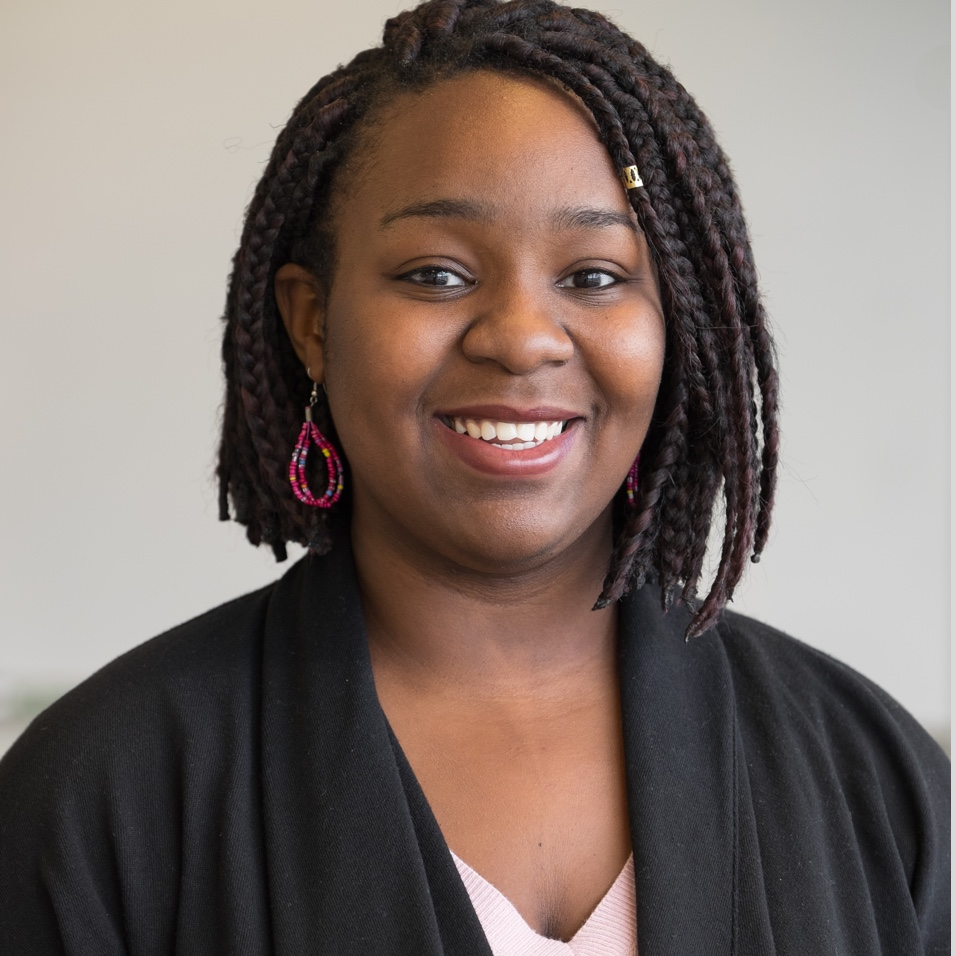
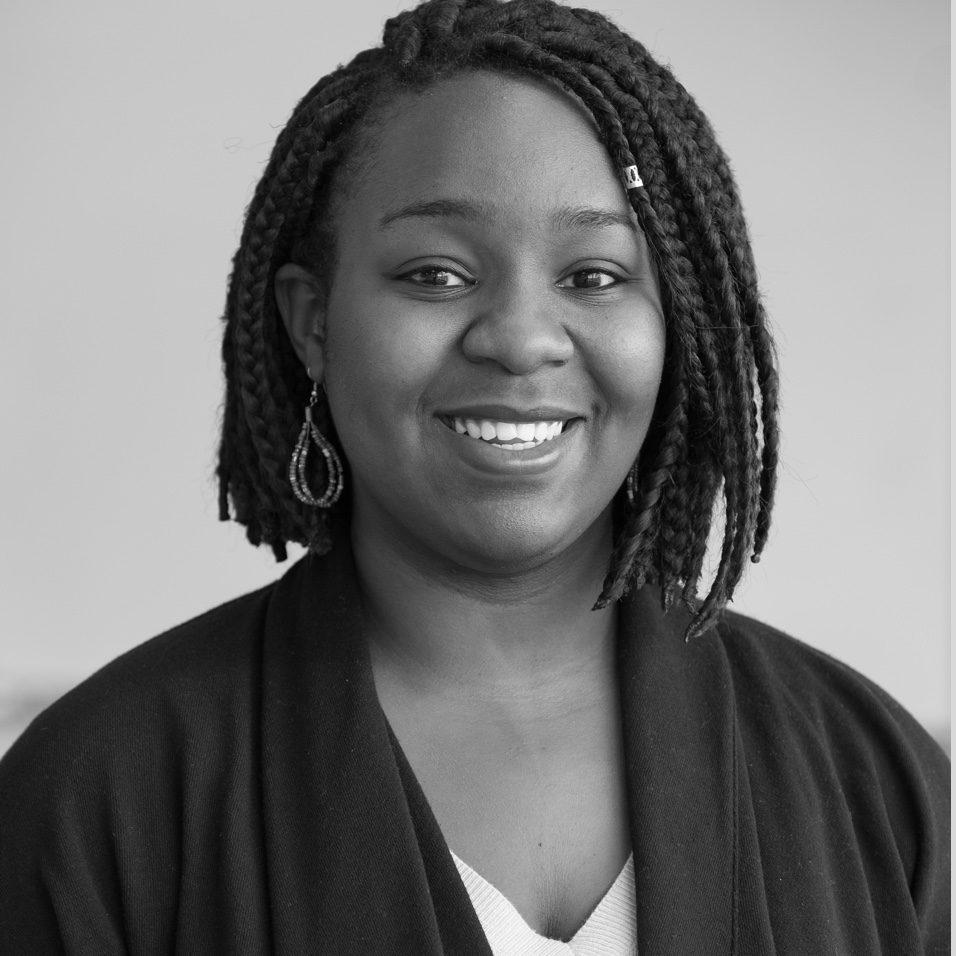
Moving seniors to Past

Changed region(s): [[0.3033, 0.0607, 0.6977, 1.0]]

diff --git a/css/custom.css b/css/custom.css
@@ -928,8 +928,8 @@ code {
 }
 
 .pastPic {
-	-webkit-filter: saturate(1.5) brightness(0.8);
-	filter: saturate(1.5) brightness(0.8);
+	-webkit-filter: grayscale(100%) saturate(1.5) brightness(0.8);
+	filter: grayscale(100%) saturate(1.5) brightness(0.8);
 }
 
 .memberName {
@@ -999,8 +999,8 @@ code {
 }
 
 .memberName:hover + img[class~="pastPic"]{
-	-webkit-filter: blur(3px) saturate(1.5) brightness(0.8);
-	filter: saturate(1.5) brightness(0.8) blur(3px);
+	-webkit-filter: blur(3px) grayscale(100%) saturate(1.5) brightness(0.8);
+	filter: grayscale(100%) saturate(1.5) brightness(0.8) blur(3px);
 	-webkit-transition: all 0.3s ease;
 	transition: all 0.3s ease;
 }
